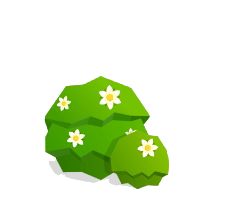
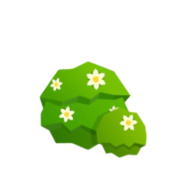
完成部分树

Changed region(s): [[0.1923, 0.3409, 0.8242, 0.9091], [0.4945, 0.625, 0.522, 0.6534]]

diff --git a/workSpace/vue/focus/src/components/Main.vue b/workSpace/vue/focus/src/components/Main.vue
@@ -9,7 +9,7 @@
       <span class="title">树种 (最近使用)</span>
       <div class="treesBox">
         <div class="Box-wrapper">
-          <div class="item" v-for="item in trees" :key="item.id"><img :src="item.url" alt=""></div>
+          <div class="item" @click="myChoice(item)" v-for="item in trees" :key="item.id" :class="{'highlight2': item.id === treeActiveId}"><img :src="item.url" alt=""></div>
         </div>
       </div>
     </div>
@@ -28,12 +28,12 @@
 
 
     <!-- 选择标签 -->
-    <div class="main-chooseLable">
+    <div class="main-chooseLabel">
       <span class="title">项目标签</span>
       <div class="lableBox">
         <ul>
-          <li class="item" v-for="item in lables" :key="item.id" @click="ChooseLable(item)"
-            :class="{ 'highlight': item.id === activeId }">
+          <li class="item" v-for="item in lables" :key="item.id" @click="chooseLabel(item)"
+            :class="{ 'highlight': item.id === LabelActiveId }">
             <span class="littleCircle"></span>
             <span class="text">{{ item.name }}</span>
           </li>
@@ -45,9 +45,11 @@
     <!-- 底部 -->
     <div class="main-bottomBar">
       <div class="statusBar_wrapper">
-        <div class="pic">
+        <div class="myTrees">
+          
         </div>
-
+     
+      
         <div class="status">
           <div class="status_time">
             <span class="iconfont icon-jindu_shalou"></span>
@@ -65,18 +67,22 @@
         <van-button type="primary" size="small" color="#35d8bf">开始</van-button>
       </div>
     </div>
+
   </div>
 </template>
 
 <script setup>
 
 import { ref } from 'vue'
+// import Trees from '../components/Trees.vue';
 
-
-const activeId = ref(null)
-
+const LabelActiveId = ref(null)
+const treeActiveId = ref(null)
+// const myTree = ref('')
 const time = ref(10)
 const label = ref('学习')
+
+
 
 const columns = [
   { text: '10', value: '10' },
@@ -118,20 +124,26 @@ const lables = [
 
 const trees = [
   { name: '松树', id: 1, url: './src/assets/treesPic/songshu.png' },
-  { name: '灌木', id: 1, url: './src/assets/treesPic/guanmu.png' },
-  { name: '松树', id: 1, url: 'https://gimg2.baidu.com/image_search/src=http%3A%2F%2Fsafe-img.xhscdn.com%2Fbw1%2F5b342386-43ce-4ab5-bf30-c1bb7e2d85d8%3FimageView2%2F2%2Fw%2F1080%2Fformat%2Fjpg&refer=http%3A%2F%2Fsafe-img.xhscdn.com&app=2002&size=f9999,10000&q=a80&n=0&g=0n&fmt=auto?sec=1691241502&t=cbd5741ae02aac485d0f858227999e04' },
-  { name: '松树', id: 1, url: 'https://gimg2.baidu.com/image_search/src=http%3A%2F%2Fsafe-img.xhscdn.com%2Fbw1%2F5b342386-43ce-4ab5-bf30-c1bb7e2d85d8%3FimageView2%2F2%2Fw%2F1080%2Fformat%2Fjpg&refer=http%3A%2F%2Fsafe-img.xhscdn.com&app=2002&size=f9999,10000&q=a80&n=0&g=0n&fmt=auto?sec=1691241502&t=cbd5741ae02aac485d0f858227999e04' },
-  { name: '松树', id: 1, url: 'https://gimg2.baidu.com/image_search/src=http%3A%2F%2Fsafe-img.xhscdn.com%2Fbw1%2F5b342386-43ce-4ab5-bf30-c1bb7e2d85d8%3FimageView2%2F2%2Fw%2F1080%2Fformat%2Fjpg&refer=http%3A%2F%2Fsafe-img.xhscdn.com&app=2002&size=f9999,10000&q=a80&n=0&g=0n&fmt=auto?sec=1691241502&t=cbd5741ae02aac485d0f858227999e04' },
-  { name: '松树', id: 1, url: 'https://gimg2.baidu.com/image_search/src=http%3A%2F%2Fsafe-img.xhscdn.com%2Fbw1%2F5b342386-43ce-4ab5-bf30-c1bb7e2d85d8%3FimageView2%2F2%2Fw%2F1080%2Fformat%2Fjpg&refer=http%3A%2F%2Fsafe-img.xhscdn.com&app=2002&size=f9999,10000&q=a80&n=0&g=0n&fmt=auto?sec=1691241502&t=cbd5741ae02aac485d0f858227999e04' },
-  { name: '松树', id: 1, url: 'https://gimg2.baidu.com/image_search/src=http%3A%2F%2Fsafe-img.xhscdn.com%2Fbw1%2F5b342386-43ce-4ab5-bf30-c1bb7e2d85d8%3FimageView2%2F2%2Fw%2F1080%2Fformat%2Fjpg&refer=http%3A%2F%2Fsafe-img.xhscdn.com&app=2002&size=f9999,10000&q=a80&n=0&g=0n&fmt=auto?sec=1691241502&t=cbd5741ae02aac485d0f858227999e04' },
-  { name: '松树', id: 1, url: 'https://gimg2.baidu.com/image_search/src=http%3A%2F%2Fsafe-img.xhscdn.com%2Fbw1%2F5b342386-43ce-4ab5-bf30-c1bb7e2d85d8%3FimageView2%2F2%2Fw%2F1080%2Fformat%2Fjpg&refer=http%3A%2F%2Fsafe-img.xhscdn.com&app=2002&size=f9999,10000&q=a80&n=0&g=0n&fmt=auto?sec=1691241502&t=cbd5741ae02aac485d0f858227999e04' },
-  { name: '松树', id: 1, url: 'https://gimg2.baidu.com/image_search/src=http%3A%2F%2Fsafe-img.xhscdn.com%2Fbw1%2F5b342386-43ce-4ab5-bf30-c1bb7e2d85d8%3FimageView2%2F2%2Fw%2F1080%2Fformat%2Fjpg&refer=http%3A%2F%2Fsafe-img.xhscdn.com&app=2002&size=f9999,10000&q=a80&n=0&g=0n&fmt=auto?sec=1691241502&t=cbd5741ae02aac485d0f858227999e04' },
-  { name: '松树', id: 1, url: 'https://gimg2.baidu.com/image_search/src=http%3A%2F%2Fsafe-img.xhscdn.com%2Fbw1%2F5b342386-43ce-4ab5-bf30-c1bb7e2d85d8%3FimageView2%2F2%2Fw%2F1080%2Fformat%2Fjpg&refer=http%3A%2F%2Fsafe-img.xhscdn.com&app=2002&size=f9999,10000&q=a80&n=0&g=0n&fmt=auto?sec=1691241502&t=cbd5741ae02aac485d0f858227999e04' },
-  { name: '松树', id: 1, url: 'https://gimg2.baidu.com/image_search/src=http%3A%2F%2Fsafe-img.xhscdn.com%2Fbw1%2F5b342386-43ce-4ab5-bf30-c1bb7e2d85d8%3FimageView2%2F2%2Fw%2F1080%2Fformat%2Fjpg&refer=http%3A%2F%2Fsafe-img.xhscdn.com&app=2002&size=f9999,10000&q=a80&n=0&g=0n&fmt=auto?sec=1691241502&t=cbd5741ae02aac485d0f858227999e04' },
+  { name: '灌木', id: 2, url: './src/assets/treesPic/guanmu.png' },
+  { name: '珊瑚', id: 3, url: './src/assets/treesPic/shanhu.png' },
+  { name: '草', id: 4, url: './src/assets/treesPic/cao.png' },
+  { name: '咕咕钟', id: 5, url: './src/assets/treesPic/guguzhong.png' },
+  { name: '石像', id: 6, url: './src/assets/treesPic/shixiang.png' },
+  { name: '屋树', id: 7, url: './src/assets/treesPic/shuwu.png' },
+  { name: '仙人球', id: 8, url: './src/assets/treesPic/xianrenqiu.png' },
+  { name: '章鱼', id: 9, url: './src/assets/treesPic/zhangyu.png' },
+  { name: '蘑菇', id: 10, url: './src/assets/treesPic/mogu.png' },
+  { name: '花树', id: 11, url: './src/assets/treesPic/huashu.png' },
+  { name: '南瓜', id: 12, url: './src/assets/treesPic/nangua.png' },
 ]
 
 const emit = defineEmits(['SettingTime', 'SettingLabel'])
 
+// 选择树种
+const myChoice = (res) => {
+  treeActiveId.value = res.id
+  
+}
 
 // 选择时间
 const choosed = ({ selectedOptions }) => {
@@ -140,11 +152,12 @@ const choosed = ({ selectedOptions }) => {
 }
 
 // 选择标签
-const ChooseLable = (res) => {
-  activeId.value = res.id
+const chooseLabel = (res) => {
+  LabelActiveId.value = res.id
   label.value = res.name
   emit('SettingLabel', res.name)
 }
+
 
 
 
@@ -208,15 +221,14 @@ const ChooseLable = (res) => {
           height: 1.7rem;
           margin-left: 0.4rem;
           margin-bottom: 0.2rem;
-          background: #dc8d8d;
           border-radius: 5px;
           display: flex;
           justify-content: center;
           align-items: center;
 
           img {
-            width: 1.2rem;
-            height: 1.2rem;
+            width: 2rem;
+            height: 1.7rem;
           }
         }
       }
@@ -226,7 +238,6 @@ const ChooseLable = (res) => {
 
   .main-chooseTime {
     border-bottom: 1.3px solid rgb(232, 234, 237, 0.3);
-
     height: 18%;
     // background: #f6f8f9;
 
@@ -248,7 +259,7 @@ const ChooseLable = (res) => {
 
   }
 
-  .main-chooseLable {
+  .main-chooseLabel {
     height: 13%;
 
     .title {
@@ -311,10 +322,11 @@ const ChooseLable = (res) => {
       justify-content: center;
       align-items: center;
 
-      .pic {
+      .myTrees {
         width: 1.5rem;
         height: 1.5rem;
-        background: rgb(148, 148, 214);
+        background: lightpink;
+        background-image: url(../assets/treesPic/main.png);
         border-radius: 50px;
       }
 
@@ -370,6 +382,9 @@ const ChooseLable = (res) => {
 }
 
 .highlight {
-  background: rgb(210, 210, 216) !important;
+  background: rgba(191, 195, 201, 0.8)!important;
+}
+.highlight2{
+  background: rgba(222, 225, 230,0.8);
 }
 </style>

diff --git a/workSpace/vue/focus/src/views/Home.vue b/workSpace/vue/focus/src/views/Home.vue
@@ -17,11 +17,10 @@
     </div>
 
     <!-- 环形进度条 -->
-   
     <CircleProgress @click.stop="ChangeSettings" @DragSettingTime="DragSetTime"></CircleProgress>
-    <div class="trees">
-      <img src="../assets/treesPic/main.png" alt="">
-    </div>
+
+    <Trees/>
+
 
     <!-- 标签 -->
     <div class="lable" @click.stop="ChangeSettings">
@@ -49,7 +48,7 @@ import Middle_PopUp from '../components/Middle_PopUp.vue';
 import LeftSort from '../components/LeftSort.vue';
 import Main from '../components/Main.vue';
 import CircleProgress from '../components/CircleProgress.vue';
-
+import Trees from '../components/Trees.vue';
 
 const state = reactive({
   label:'学习'
@@ -90,7 +89,6 @@ const Animate = ref('')
 const ShowPopUp = () => {
   showPop.value = true,
     isfogged.value = true
-  // Animate.value = 'animate__animated  animate__bounceOutDown  animate__delay-0.2s'
   Animate.value = 'animate__animated  animate__bounceInDown  animate__delay-0.2s'
 }
 
@@ -208,17 +206,7 @@ const ChangeSettings = () => {
       margin-right: 0.2rem;
     }
   }
-  .trees{
-    position: fixed;
-    top: 25.2%;
-    left: -6.2%;
-    z-index: 1;
-    img{
-      width: 11.85rem;
-      height: 7.6rem;
-      
-    }
-  }
+ 
 
 
   .time {

diff --git a/workSpace/vue/focus/src/components/Trees.vue b/workSpace/vue/focus/src/components/Trees.vue
@@ -1,0 +1,29 @@
+<template>
+  <div class="trees">
+      <img src="../assets/treesPic/songshu.png" alt="" class="plant">
+      <img src="../assets/treesPic/soil.png" alt="" class="soil">
+    </div>
+</template>
+
+<script setup>
+
+</script>
+
+<style lang="less" scoped>
+ .trees{
+    position: fixed;
+    top: 4.47rem;
+    left: -0.64rem;
+    z-index: 1;
+    .plant{
+      position: fixed;
+      top: 5.2rem;
+      left: 2.95rem;
+      width: 4rem;
+    }
+    .soil{
+      width: 11.88rem;
+      height: 7.6rem;
+    }
+  }
+</style>
